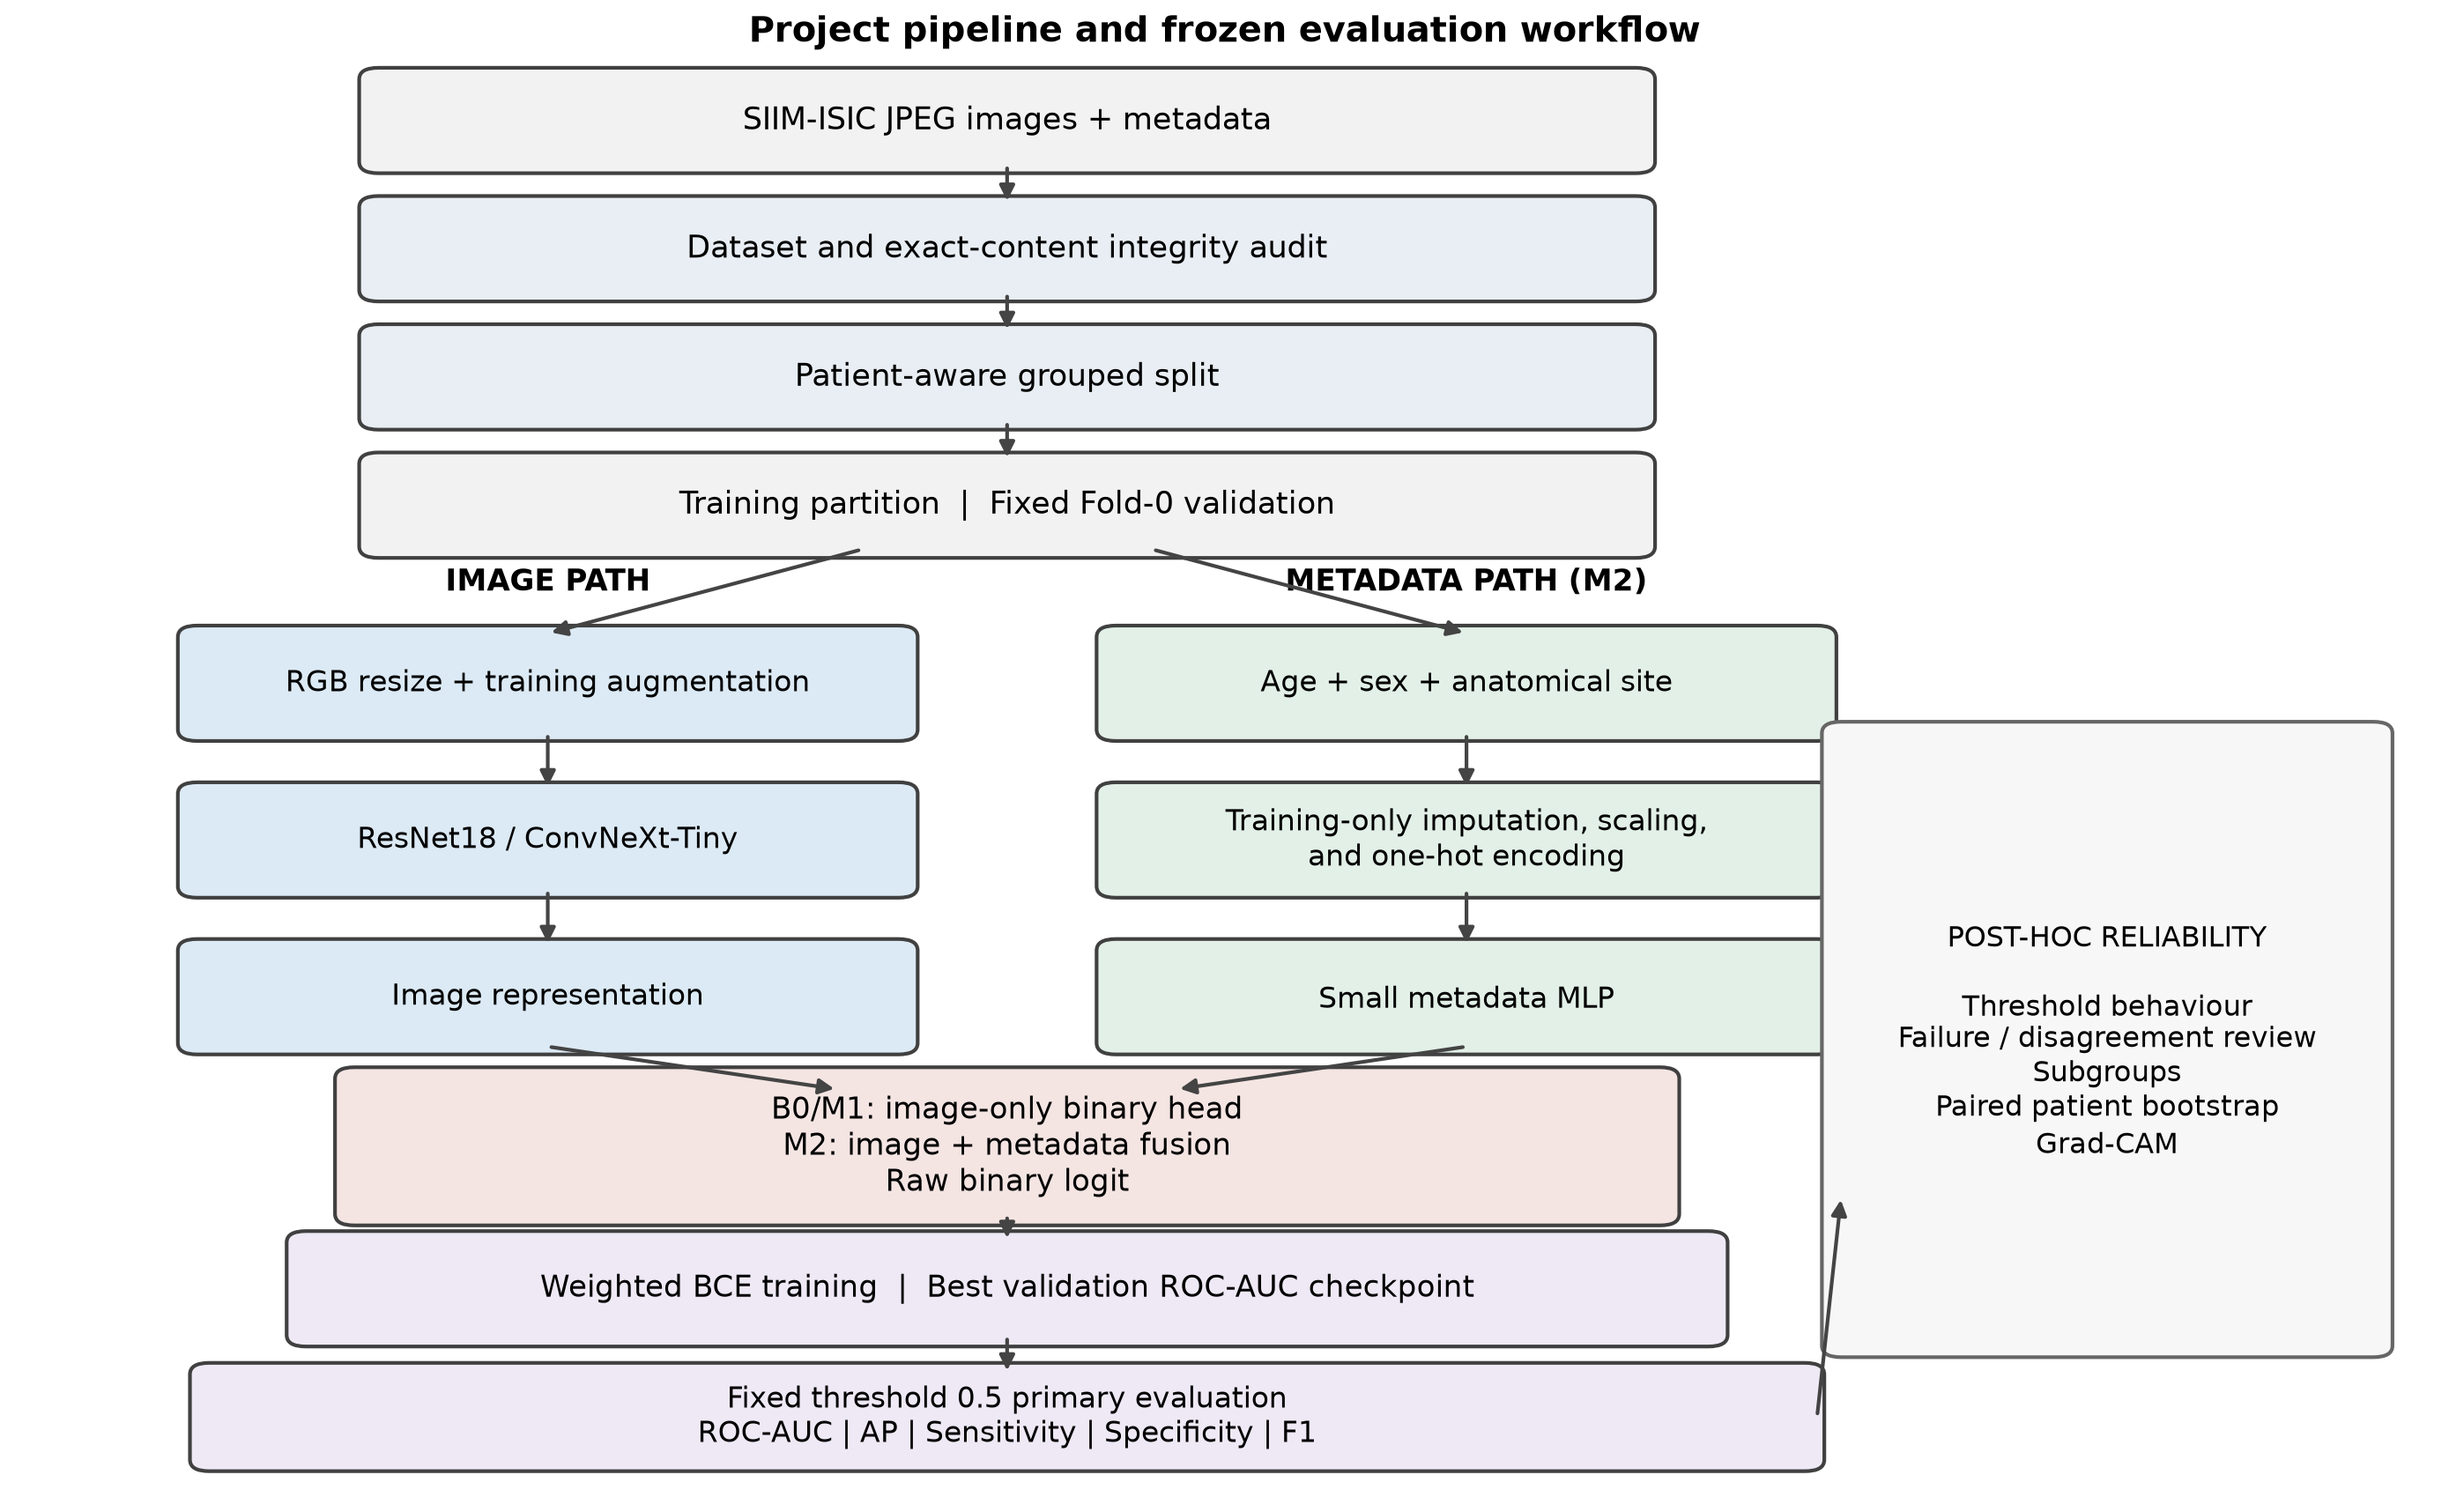
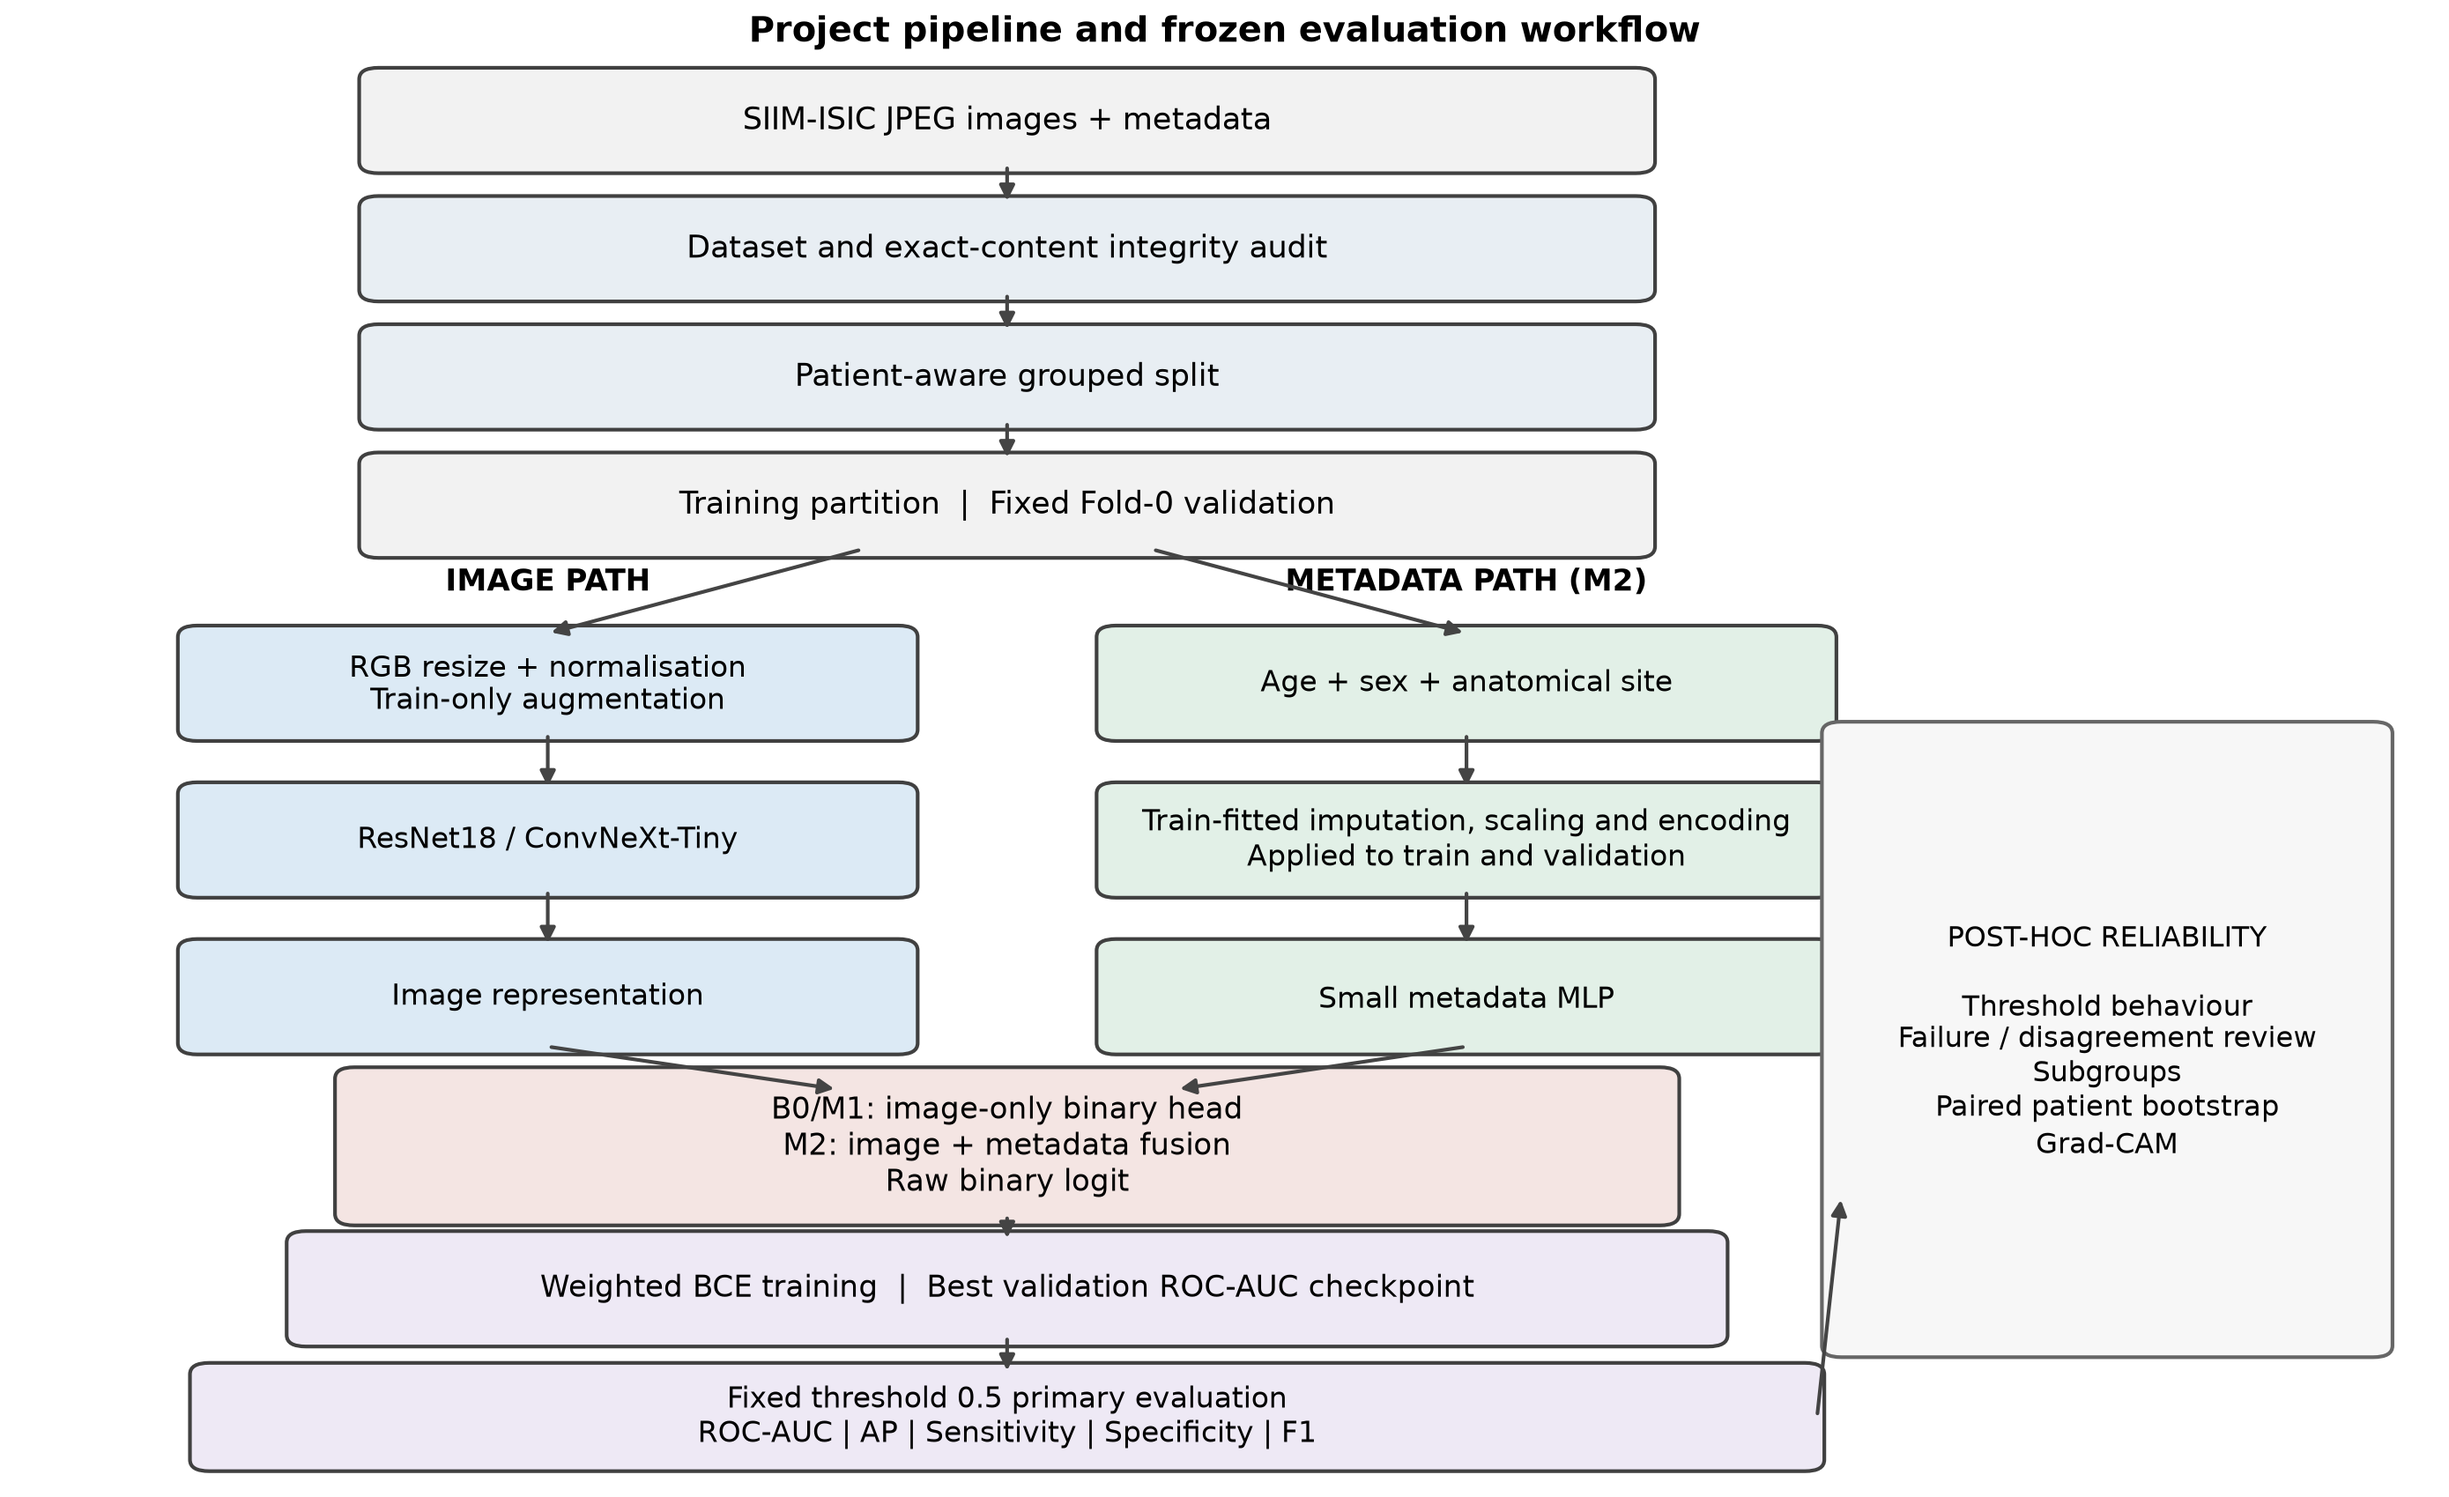
viz: clarify train-only preprocessing in pipeline

Changed region(s): [[0.4642, 0.5303, 0.7427, 0.5927], [0.1238, 0.4367, 0.3404, 0.4679]]

diff --git a/src/publication_assets.py b/src/publication_assets.py
@@ -298,13 +298,13 @@ def plot_pipeline(png_path: Path, pdf_path: Path) -> None:
         _draw_arrow(axis, (upper[0][0], upper[0][1] - 0.031), (lower[0][0], lower[0][1] + 0.031))
 
     image_boxes = [
-        ((0.22, 0.56), "RGB resize + training augmentation"),
+        ((0.22, 0.56), "RGB resize + normalisation\nTrain-only augmentation"),
         ((0.22, 0.45), "ResNet18 / ConvNeXt-Tiny"),
         ((0.22, 0.34), "Image representation"),
     ]
     metadata_boxes = [
         ((0.60, 0.56), "Age + sex + anatomical site"),
-        ((0.60, 0.45), "Training-only imputation, scaling,\nand one-hot encoding"),
+        ((0.60, 0.45), "Train-fitted imputation, scaling and encoding\nApplied to train and validation"),
         ((0.60, 0.34), "Small metadata MLP"),
     ]
     axis.text(0.22, 0.62, "IMAGE PATH", ha="center", va="bottom", fontsize=8.2, fontweight="bold")
